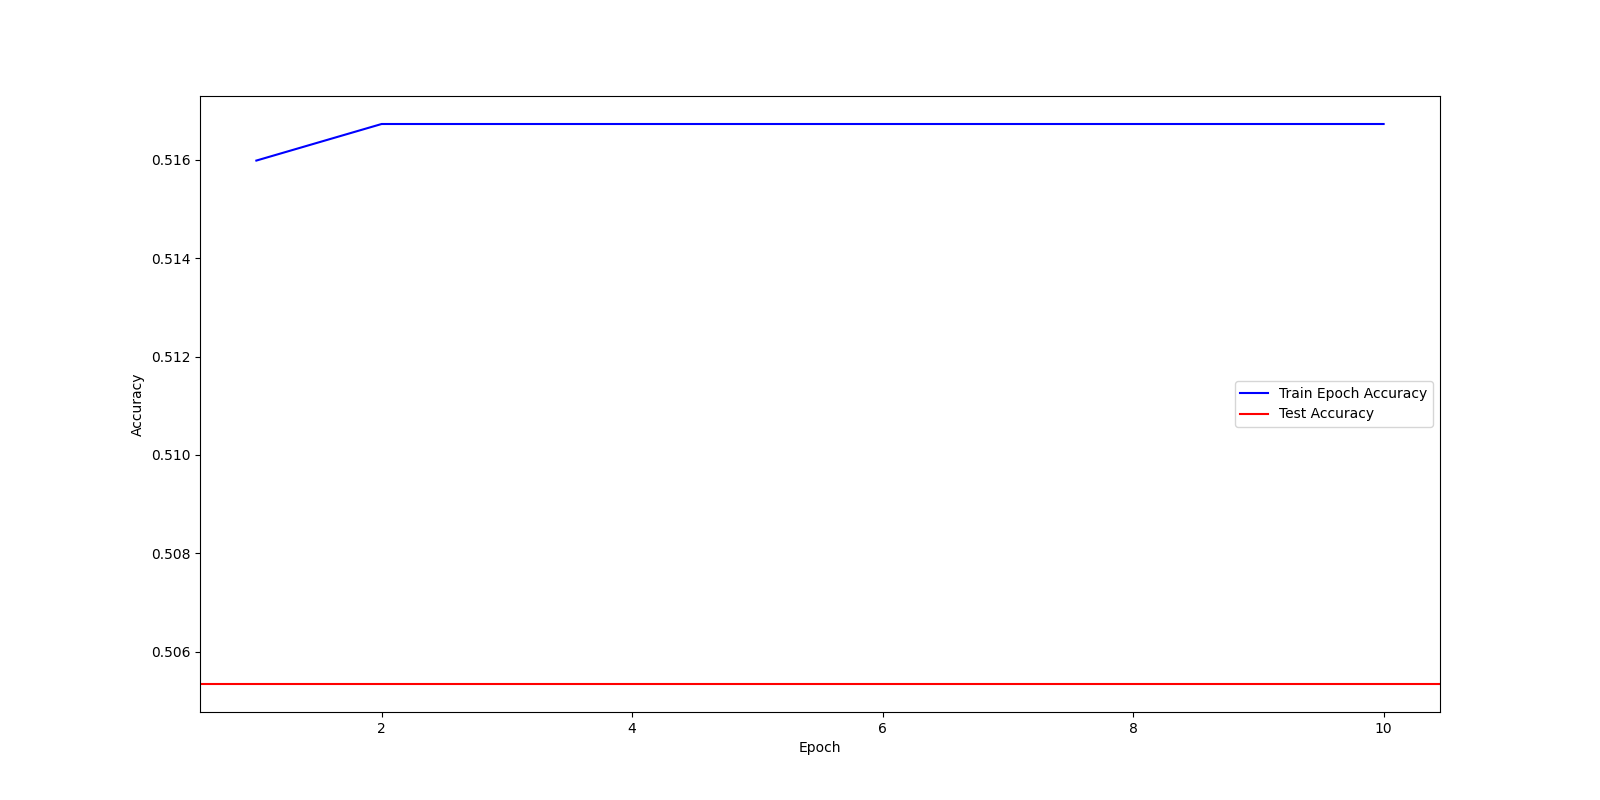
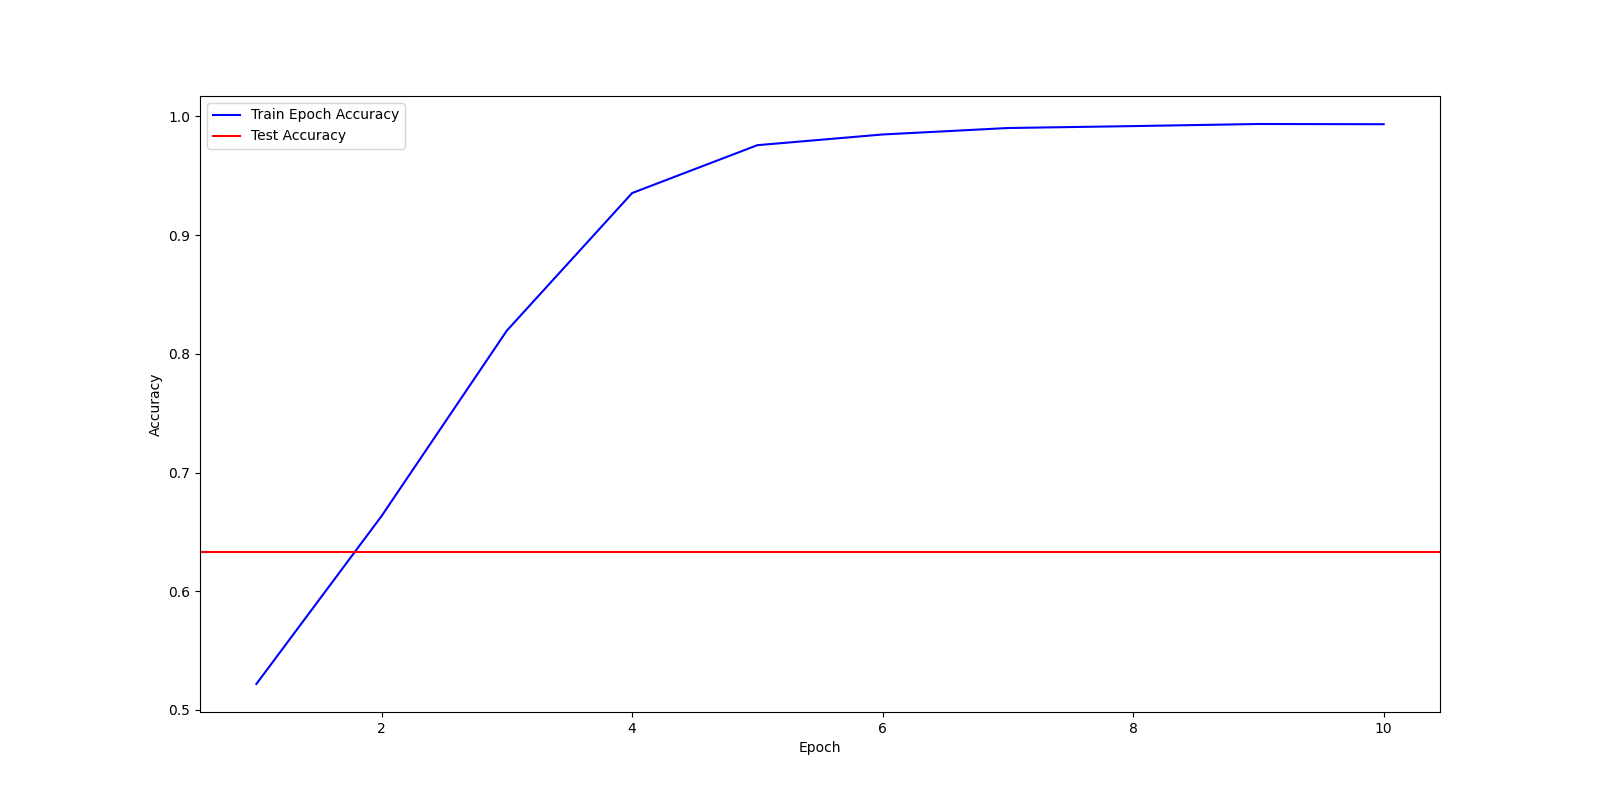
Updated modules based on https://github.com/raoyongming/GFNet/blob/master/gfnet.py, the training is overfitting the data.

diff --git a/recognition/GFNet-47428364/modules.py b/recognition/GFNet-47428364/modules.py
@@ -1,84 +1,98 @@
+# Modified code from https://github.com/raoyongming/GFNet/blob/master/gfnet.py
 import math
 import torch
 import torch.nn as nn
 import torch.fft
 
-# Global Filter Block
-class GlobalFilterBlock(nn.Module):
+# GFNet Global Filter Class
+class GlobalFilter(nn.Module):
     def __init__(self, dim, h=14, w=8):
         super().__init__()
-        self.filter = nn.Parameter(torch.randn(h, w, dim, 2, dtype=torch.float32) * 0.02)
+        self.complex_weight = nn.Parameter(torch.randn(h, w, dim, 2, dtype=torch.float32) * 0.02)
         self.w = w
         self.h = h
 
     def forward(self, x):
         B, N, C = x.shape
         a = b = int(math.sqrt(N))
-        x = x.view(B, a, b, C).to(torch.float32)
 
-        x = torch.fft.rfftn(x, dim=(1, 2), norm="ortho")
-        x = x * torch.view_as_complex(self.filter)
-        x = torch.fft.irfftn(x, s=(a, b), dim=(1, 2), norm="ortho")
+        x = x.view(B, a, b, C)
+        x = x.to(torch.float32)
+
+        x = torch.fft.rfft2(x, dim=(1, 2), norm="ortho")
+        weight = torch.view_as_complex(self.complex_weight)
+        x = x * weight
+        x = torch.fft.irfft2(x, s=(a, b), dim=(1, 2), norm="ortho")
 
         x = x.reshape(B, N, C)
         return x
 
-# GFNet Block and MLP
-class BlockMLP(nn.Module):
+# GFNet MLP Class
+class MLP(nn.Module):
+    def __init__(self, in_features, hidden_features, drop=0.):
+        super().__init__()
+        self.fc1 = nn.Linear(in_features, hidden_features)
+        self.act = nn.GELU()
+        self.fc2 = nn.Linear(hidden_features, in_features)
+        self.drop = nn.Dropout(drop)
+
+    def forward(self, x):
+        x = self.fc1(x)
+        x = self.act(x)
+        x = self.drop(x)
+        x = self.fc2(x)
+        x = self.drop(x)
+        return x
+    
+# GFNet Block Class
+class Block(nn.Module):
     def __init__(self, dim, mlp_ratio=4., drop=0., h=14, w=8):
         super().__init__()
         self.norm1 = nn.LayerNorm(dim)
-        self.filter = GlobalFilterBlock(dim, h=h, w=w)
-        # MLP
+        self.filter = GlobalFilter(dim, h=h, w=w)
         self.norm2 = nn.LayerNorm(dim)
-        self.mlp = nn.Sequential(
-            nn.Linear(dim, int(dim * mlp_ratio)),
-            nn.GELU(),
-            nn.Dropout(drop),
-            nn.Linear(int(dim * mlp_ratio), dim),
-            nn.Dropout(drop)
-        )
+        hidden_dim = int(dim * mlp_ratio)
+        self.mlp = MLP(dim, hidden_dim, drop)
 
     def forward(self, x):
-        x = x + self.filter(self.norm1(x)) # Global Filter Block
-        x = x + self.mlp(self.norm2(x)) # MLP
+        x = x + self.mlp(self.norm2(self.filter(self.norm1(x))))
         return x
 
 # GFNet Model
 class GFNet(nn.Module):
-    def __init__(self, embed_dim=384, img_size=224, patch_size=16, in_chans=3, mlp_ratio=4, depth=4, num_classes=1000):
+    def __init__(self, embed_dim=768, img_size=224, patch_size=16, in_chans=3, mlp_ratio=4, depth=12, drop_rate=0., num_classes=1000):
         super().__init__()
 
         # Patch embedding
-        self.patch_embed = nn.Conv2d(in_chans, embed_dim, kernel_size=patch_size, stride=patch_size)
+        self.proj = nn.Conv2d(in_chans, embed_dim, kernel_size=patch_size, stride=patch_size)
+        
+        self.pos_drop = nn.Dropout(p=drop_rate)
 
         h = img_size // patch_size
         w = h // 2 + 1
 
         # Stacked blocks
-        self.blocks = nn.Sequential(
-            *[BlockMLP(embed_dim, mlp_ratio, h=h, w=w)
-            for _ in range(depth)]
-        )
+        self.blocks = nn.ModuleList([
+            Block(
+                embed_dim, mlp_ratio, drop_rate, h=h, w=w)
+            for i in range(depth)
+        ])
+
+        self.norm = nn.LayerNorm(embed_dim)
 
         # Classification head
-        self.norm = nn.LayerNorm(embed_dim)
         self.head = nn.Linear(embed_dim, num_classes)
-        
-        self.softmax = nn.Softmax(1)
 
     def forward(self, x):
         # Patch embedding
-        x = self.patch_embed(x)
-        x = x.flatten(2).transpose(1, 2)
+        x = self.proj(x).flatten(2).transpose(1, 2)
+        x = self.pos_drop(x)
 
-        # GFNet blocks
-        x = self.blocks(x)
+        for block in self.blocks:
+            x = block(x)
+        x = self.norm(x).mean(1)
 
         # Classification head
-        x = self.norm(x)
-        x = x.mean(dim=1)
         x = self.head(x)
 
-        x = self.softmax(x)
         return x

diff --git a/recognition/GFNet-47428364/predict.py b/recognition/GFNet-47428364/predict.py
@@ -11,15 +11,14 @@ device = torch.device("cuda" if torch.cuda.is_available() else "cpu")
 def main():
     # Load the saved model
     model = GFNet()
-    model.load_state_dict(torch.load("GFNet-Model.pth"))
+    model.load_state_dict(torch.load("GFNet-Model.pth", weights_only=True))
     model.to(device)
 
+    # Get the dataloaders from dataset.py
     _, test_dataloader = get_dataloaders()
 
-    # Evaluate trained model on the test data
+    # Evaluate loaded model on the test data
     test_loss, test_accuracy = evaluate(model, test_dataloader, nn.CrossEntropyLoss())
-
-    # Print the results of the evaluation
     print(f"Test - Loss: {test_loss:.4f}, Accuracy: {100*test_accuracy:.2f}%")
 
 if __name__ == "__main__":

diff --git a/recognition/GFNet-47428364/README.MD b/recognition/GFNet-47428364/README.MD
@@ -12,7 +12,7 @@ The following dependencies are required: m
 * torchvision
 * matplotlib
 
-*Note:* To use the required `rffnt` and `irfftn` function from PyTorch, verion 1.8.0 or greater is required.
+*Note:* To use the required `rffn2` and `irfft2` function from PyTorch, verion 1.8.0 or greater is required.
 
 *Note:* The results generated from this model may differ between runs as the filters are set randomly. With the same hyperparamters, similar results could be achieved.
 
@@ -21,7 +21,7 @@ The following dependencies are required: m
 ### Inputs
 These are the parameters specified for the model:
 ```
-GFNet(embed_dim=384, img_size=224, patch_size=16, in_chans=3, mlp_ratio=4, depth=4, num_classes=1000)
+GFNet(embed_dim=768, img_size=224, patch_size=16, in_chans=3, mlp_ratio=4, depth=12, drop_rate=0., num_classes=1000)
 ```
 *Note:* These parameters are the defaults for the GFNet.
 
@@ -42,7 +42,7 @@ model.load_state_dict(torch.load("GFNet-Model.pth"))
 
 ### Outputs
 ```
-Test - Loss: 6.4041, Accuracy: 50.53%
+Test - Loss: 2.3159, Accuracy: 63.27%
 ```
 
 ## Pre-Processing
@@ -53,4 +53,4 @@ The images were resized to 224x224 to match the standard for GFNet.
 ## References
 [1] “An overview of the split-frequency filter network.” ResearchGate, 2023. https://www.researchgate.net/figure/An-overview-of-the-split-frequency-filter-network-Our-network-structure-based-on-GFNet_fig1_372975394
 
-[2] “External-Attention-pytorch/gfnet.py” bianxs, 2024. http://111.229.202.238:1118/bianxs/External-Attention-pytorch/src/commit/789e3a17dd393007369525d308fb056293078d09/model/attention/gfnet.py
+[2] raoyongming, “Global Filter Networks for Image Classification,” GitHub, 2021. https://github.com/raoyongming/GFNet
